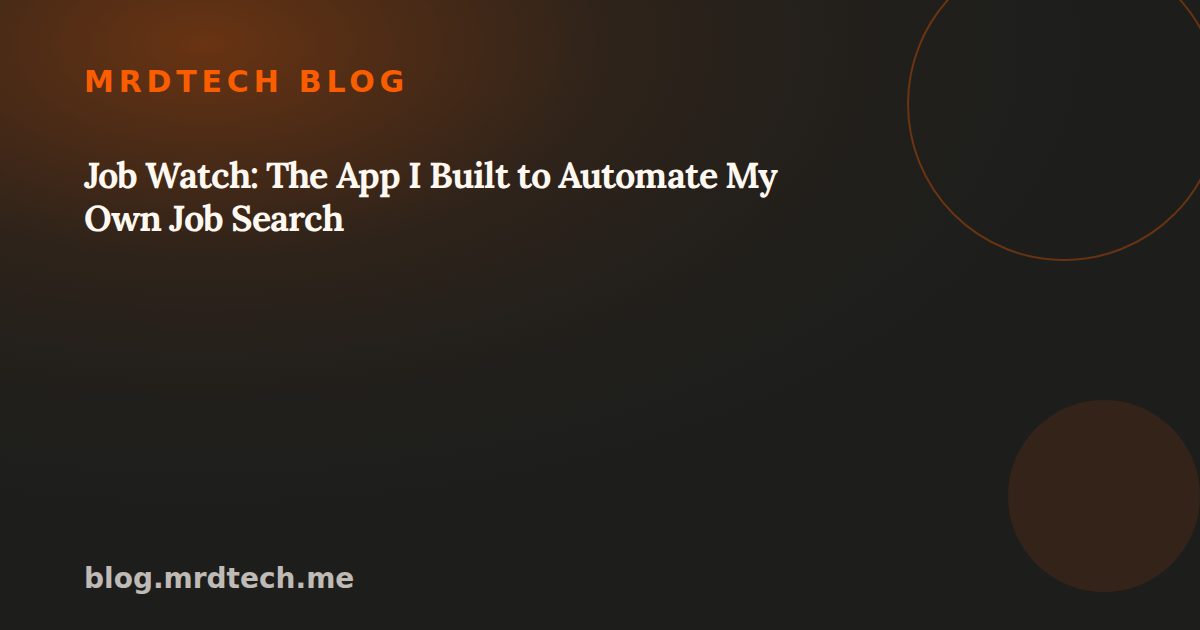
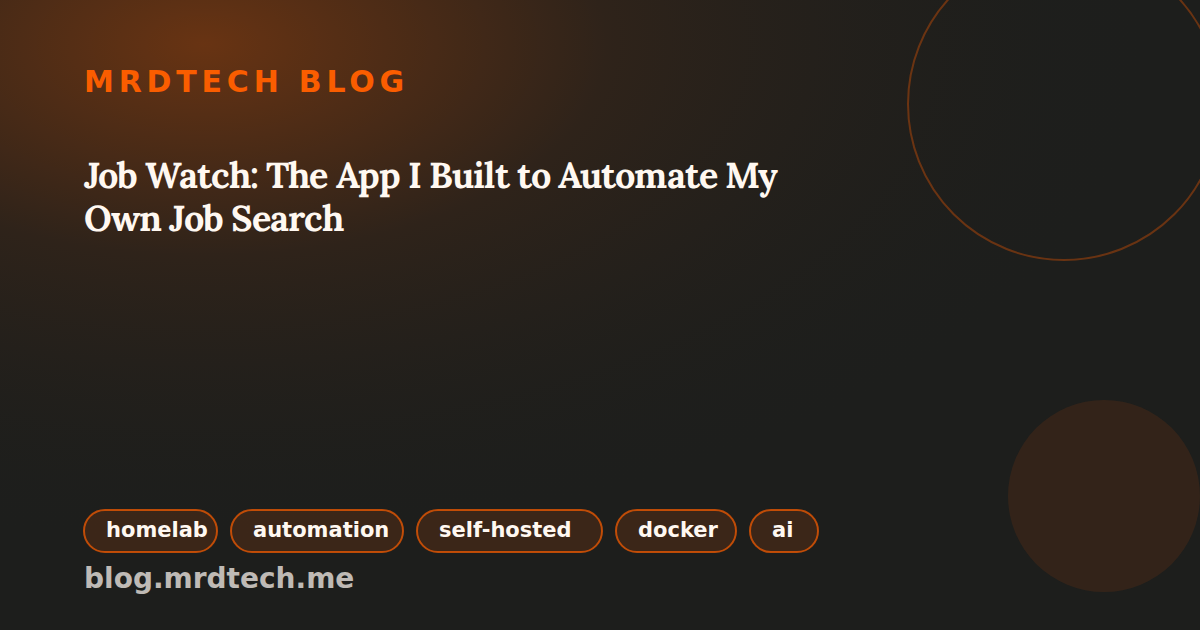
Fix front matter tags syntax and regenerate OG images for FreshRSS, Job Watch, and Tailscale posts

Changed region(s): [[0.0617, 0.7841, 0.6783, 0.9048]]

diff --git a/_posts/2026-08-28-tailscale-better-than-vpn.md b/_posts/2026-08-28-tailscale-better-than-vpn.md
@@ -2,8 +2,20 @@
 layout: post
 title: "Why I Ditched My Traditional VPN for Tailscale"
 date: 2026-08-28
-tags: [networking, security, homelab, tailscale, wireguard]
 excerpt: "Traditional site-to-site and remote-access VPNs solve connectivity, but they cost you in attack surface and admin overhead. Here's why I moved my homelab to Tailscale's WireGuard mesh, and how I set it up."
+og_image: /assets/og/tailscale-better-than-vpn.png
+og_slug: tailscale-better-than-vpn
+image:
+  path: /assets/og/tailscale-better-than-vpn.png
+  width: 1200
+  height: 630
+  alt: Why I ditched my traditional VPN for Tailscale branded social preview image
+tags:
+  - networking
+  - security
+  - homelab
+  - tailscale
+  - wireguard
 ---
 
 For years my remote access setup looked like every other homelab and small-business network: a firewall rule forwarding a UDP port to an OpenVPN or WireGuard server, a cert or PSK to manage, and a hub-and-spoke tunnel that dumped remote clients onto my LAN subnet. It worked, but every time I opened that inbound port I was accepting a tradeoff I didn't love — an internet-facing listener that's one misconfigured firewall rule or unpatched VPN daemon away from being someone else's way in.

diff --git a/_posts/2026-08-28-job-watch-app.md b/_posts/2026-08-28-job-watch-app.md
@@ -2,8 +2,20 @@
 layout: post
 title: "Job Watch: The App I Built to Automate My Own Job Search"
 date: 2026-08-28
-tags: [homelab, automation, self-hosted, docker, ai]
 excerpt: "Job hunting is a data problem disguised as an emotional one. I built a self-hosted aggregator that scored every listing against my resume and told me the ones worth my time - here's how it worked."
+og_image: /assets/og/job-watch-app.png
+og_slug: job-watch-app
+image:
+  path: /assets/og/job-watch-app.png
+  width: 1200
+  height: 630
+  alt: Job Watch - the app I built to automate my own job search branded social preview image
+tags:
+  - homelab
+  - automation
+  - self-hosted
+  - docker
+  - ai
 ---
 
 Job hunting has a volume problem. Between LinkedIn, Indeed, company career pages, and a half-dozen niche boards, the actual signal - the two or three roles a week worth a real application - gets buried under a firehose of postings that don't match your experience, your comp floor, or even your field. I was manually triaging dozens of listings a day and losing time I needed for actually applying. So I built something to do the triage for me.

diff --git a/_posts/2026-09-13-a-better-way-to-get-your-news-feeds.md b/_posts/2026-09-13-a-better-way-to-get-your-news-feeds.md
@@ -2,8 +2,21 @@
 layout: post
 title: "A Better Way to Get Your News Feeds: Self-Hosting FreshRSS"
 date: 2026-09-13
-tags: [RSS, FreshRSS, Self-Hosted, Homelab, Proxmox, LXC]
 excerpt: "I got tired of letting algorithms decide what articles and videos I saw, so I built my own reading and watching list instead - here's why, and how I built it."
+og_image: /assets/og/a-better-way-to-get-your-news-feeds.png
+og_slug: a-better-way-to-get-your-news-feeds
+image:
+  path: /assets/og/a-better-way-to-get-your-news-feeds.png
+  width: 1200
+  height: 630
+  alt: A Better Way to Get Your News Feeds - Self-Hosting FreshRSS branded social preview image
+tags:
+  - RSS
+  - FreshRSS
+  - Self-Hosted
+  - Homelab
+  - Proxmox
+  - LXC
 ---
 
 I don't want a news feed. I want a reading list - and a watch list I actually control.
